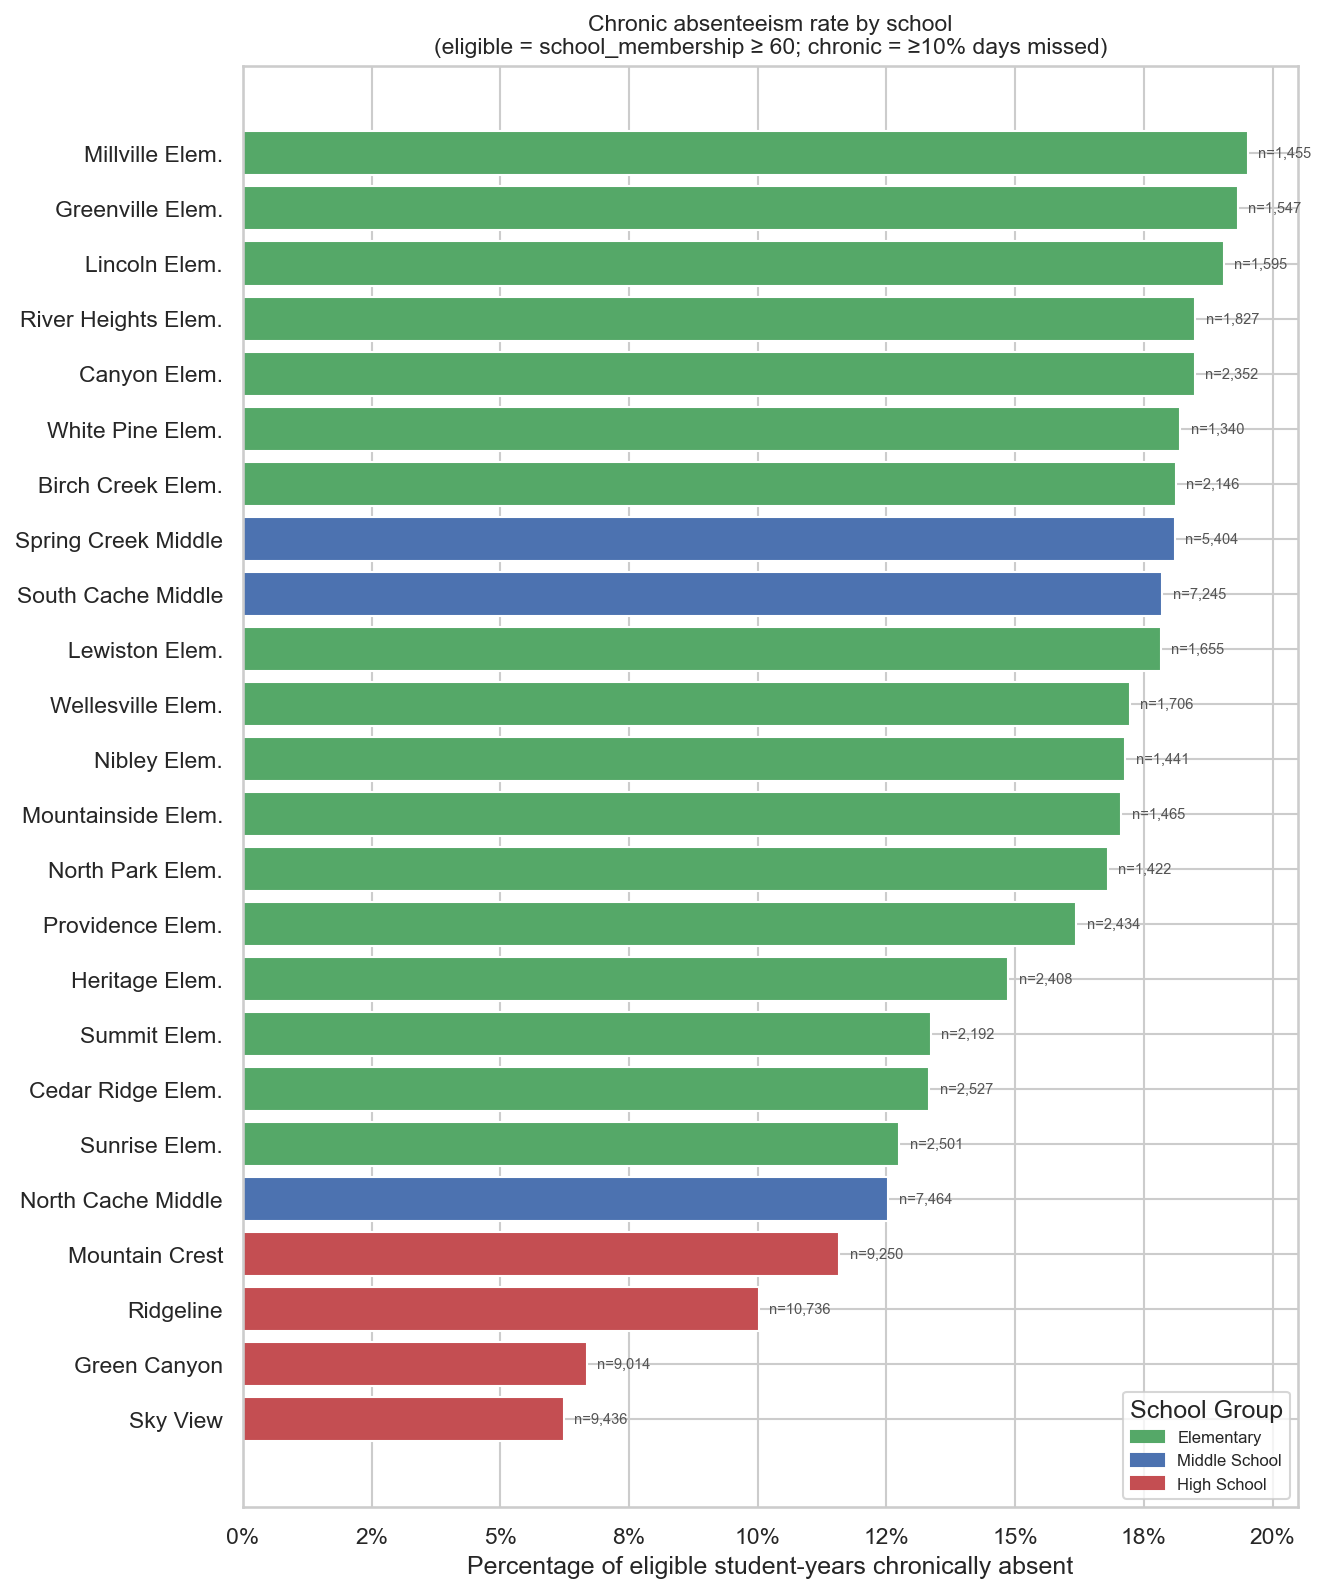
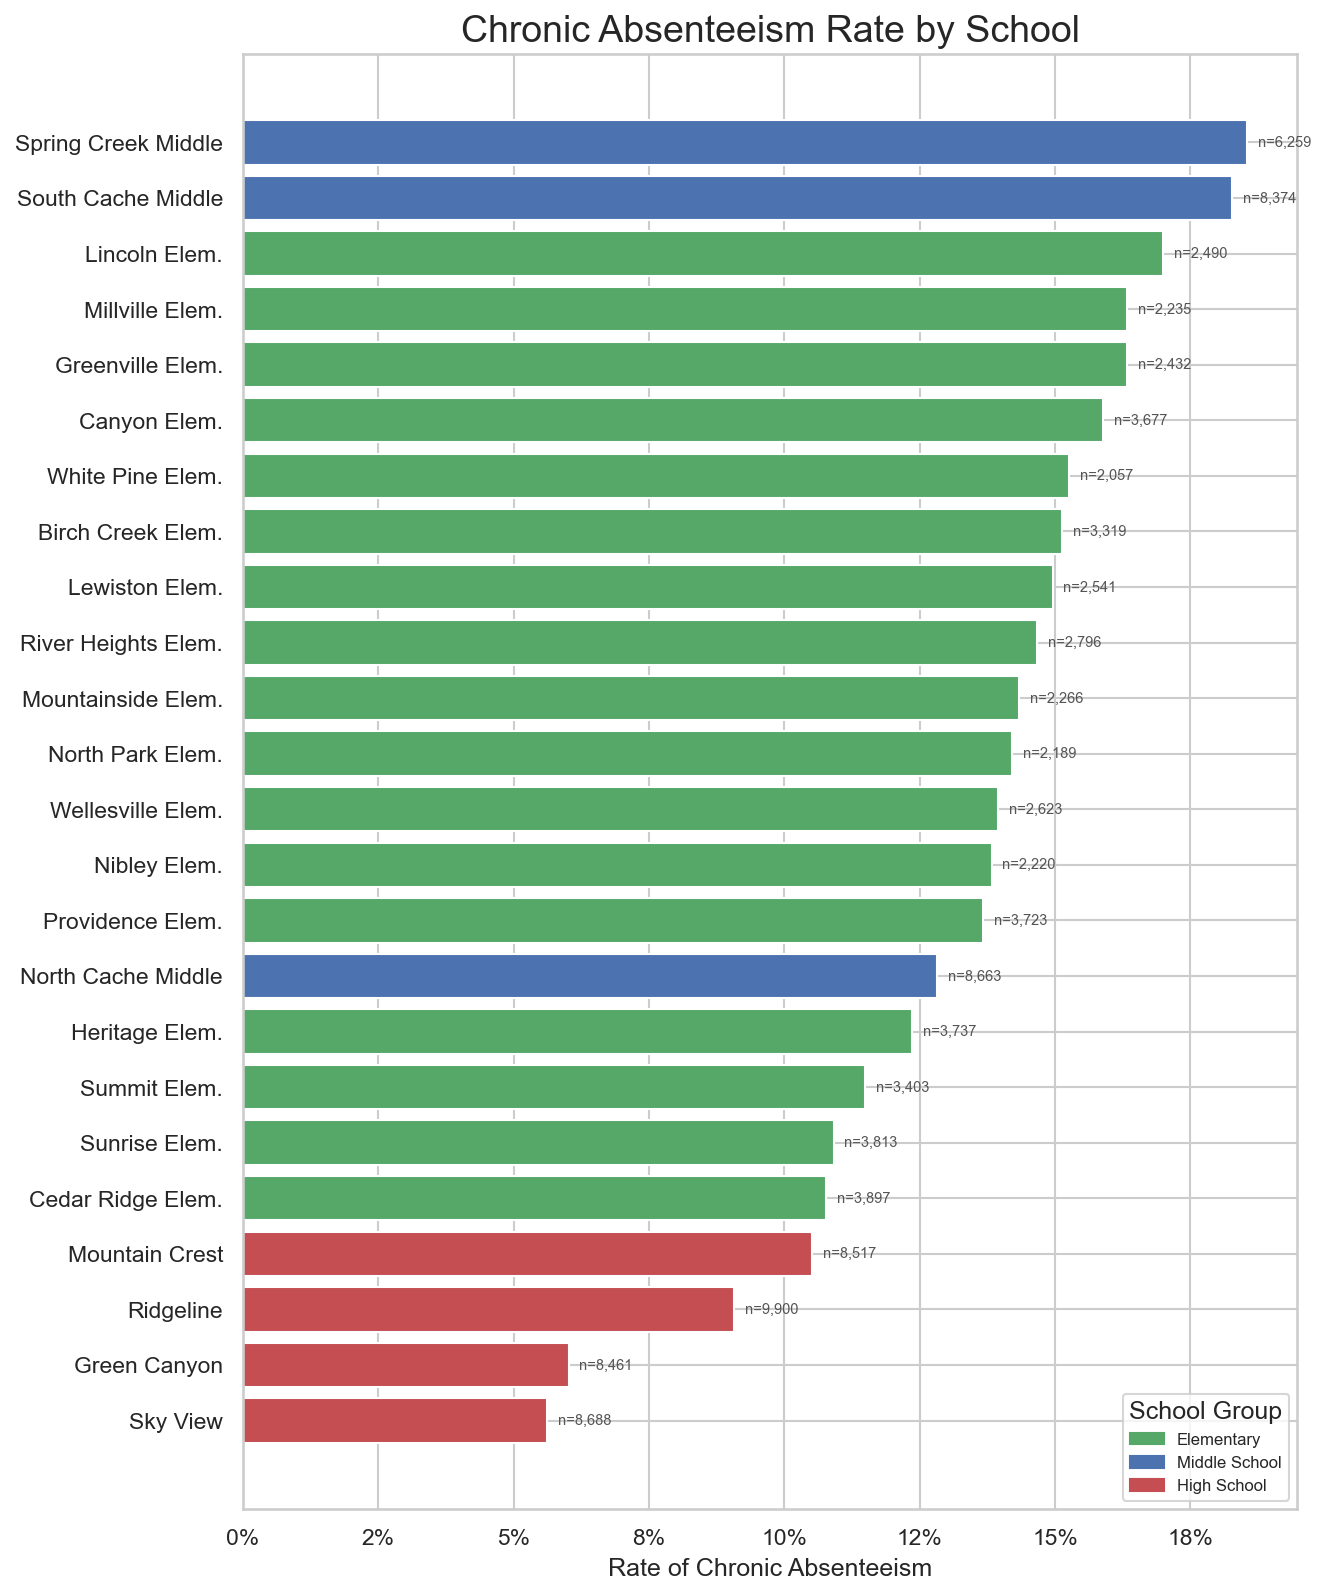
a few quick edits to chart titles

diff --git a/code/08_attendance.py b/code/08_attendance.py
@@ -462,45 +462,6 @@ print("Wrote chronic_absenteeism_rate_by_grade.png")
 
 
 # ═══════════════════════════════════════════════════════════════════════════════
-# CHART 4 — Mean GPA: chronic vs non-chronic by grade (7–12)
-# ═══════════════════════════════════════════════════════════════════════════════
-
-_rows4 = []
-for _g, _grp in _cbase_gpa.groupby("_grade", dropna=True):
-    _n_chr = int(_grp["_chronic"].sum())
-    _n_not = int((~_grp["_chronic"]).sum())
-    if _n_chr < MIN_N or _n_not < MIN_N:
-        continue
-    _rows4.append({
-        "grade":       _g,
-        "gpa_chronic": _grp.loc[_grp["_chronic"], "overall_gpa"].mean(),
-        "gpa_not":     _grp.loc[~_grp["_chronic"], "overall_gpa"].mean(),
-    })
-
-if _rows4:
-    _gpa_df4 = pd.DataFrame(_rows4).sort_values("grade")
-    _x = np.arange(len(_gpa_df4))
-    _w = 0.38
-    fig, ax = plt.subplots(figsize=(10, 5))
-    sns.set_theme(style="whitegrid")
-    ax.bar(_x - _w / 2, _gpa_df4["gpa_not"],    _w, color="#4c72b0", label="Not chronically absent")
-    ax.bar(_x + _w / 2, _gpa_df4["gpa_chronic"], _w, color="#c44e52", label="Chronically absent")
-    ax.set_xticks(_x)
-    ax.set_xticklabels(_gpa_df4["grade"].astype(int))
-    ax.set_xlabel("Grade")
-    ax.set_ylabel("Mean cumulative GPA")
-    ax.set_title(
-        "Mean GPA by grade (7–12): chronically absent vs not\n"
-        f"(suppressed where n < {MIN_N} in either group)",
-        fontsize=11,
-    )
-    ax.legend(fontsize=9)
-    fig.tight_layout()
-    fig.savefig(FIG_DIR / "grade_mean_gpa_chronic_vs_not.png", dpi=150, bbox_inches="tight")
-    plt.close(fig)
-
-
-# ═══════════════════════════════════════════════════════════════════════════════
 # CHART 5a — Chronic absenteeism by ethnicity (with n sizes)
 # ═══════════════════════════════════════════════════════════════════════════════
 
@@ -650,7 +611,7 @@ for _tier6 in _SCHOOL_GROUP_ORDER:
             _bar.get_width() + 0.002, _bar.get_y() + _bar.get_height() / 2,
             f"n={_n:,}", va="center", fontsize=8, color="#555555"
         )
-    ax.set_xlabel("Percentage of eligible student-years chronically absent")
+    ax.set_xlabel("Rate of Chronic Absenteeism")
     ax.set_title(f"Chronic Absenteeism Rate — {_tier6} Schools", fontsize=12)
     ax.xaxis.set_major_formatter(mticker.FuncFormatter(lambda x, _: f"{x:.0%}"))
     fig.tight_layout()
@@ -731,67 +692,6 @@ print("Wrote total_years_chronically_absent_vs_gpa.png")
 
 
 # ═══════════════════════════════════════════════════════════════════════════════
-# CHART 9 — Improvers by first good-attendance grade (grade in year of first good attendance)
-# ═══════════════════════════════════════════════════════════════════════════════
-
-_m9g = _anc_grade[_anc_grade["current_grade"].between(1, 12)]
-if not _m9g.empty:
-    _counts9_imp = (
-        _m9g.groupby("current_grade", as_index=False)
-        .size()
-        .rename(columns={"size": "n_improvers"})
-        .sort_values("current_grade")
-    )
-    _poor_grade_num = pd.to_numeric(_poor_rows["current_grade"], errors="coerce")
-    _poor_for_chart9 = _poor_rows.loc[_poor_grade_num.notna(), ["student_number"]].copy()
-    _poor_for_chart9["grade"] = _poor_grade_num[_poor_grade_num.notna()].astype(int).values
-    _counts9_poor = (
-        _poor_for_chart9.groupby("grade", as_index=False)["student_number"]
-        .nunique()
-        .rename(columns={"student_number": "n_poor"})
-    )
-    _counts9 = (
-        _counts9_imp.rename(columns={"current_grade": "grade"})
-        .merge(_counts9_poor, on="grade", how="outer")
-        .fillna(0)
-        .sort_values("grade")
-    )
-    _counts9_long = _counts9.melt(
-        id_vars="grade",
-        value_vars=["n_improvers", "n_poor"],
-        var_name="cohort",
-        value_name="n",
-    )
-    _counts9_long["cohort"] = _counts9_long["cohort"].map(
-        {
-            "n_improvers": "Improvers",
-            "n_poor": "Poor Attenders",
-        }
-    )
-    fig, ax = plt.subplots(figsize=(8, 5))
-    sns.set_theme(style="whitegrid")
-    sns.barplot(
-        data=_counts9_long,
-        x="grade",
-        y="n",
-        hue="cohort",
-        hue_order=["Improvers", "Poor Attenders"],
-        palette=["#4c72b0", "#c44e52"],
-        ax=ax,
-    )
-    ax.set_xlabel("Grade")
-    ax.set_ylabel("Total Students")
-    ax.set_title(
-        "Improvers vs Poor Attenders by Grade"
-    )
-    ax.legend(title=None, loc="upper right", fontsize=8)
-    fig.tight_layout()
-    fig.savefig(FIG_DIR / "improvers_count_by_grade.png", dpi=150, bbox_inches="tight")
-    plt.close(fig)
-    print("Wrote improvers_count_by_grade.png")
-
-
-# ═══════════════════════════════════════════════════════════════════════════════
 # CHART 10 — Proportion of improvers to poor attenders by grade
 #   Bar at grade G:  (improvers with first-good grade G)
 #                    / (all students with poor attendance in grade G).
@@ -820,31 +720,6 @@ if not _grade_counts.empty:
     fig.savefig(FIG_DIR / "proportion_of_improvers_to_poor_attenders_by_grade.png", dpi=150, bbox_inches="tight")
     plt.close(fig)
     print("Wrote proportion_of_improvers_to_poor_attenders_by_grade.png")
-
-
-# ═══════════════════════════════════════════════════════════════════════════════
-# CHART 11 — Improvers by school (first good-attendance year)
-# ═══════════════════════════════════════════════════════════════════════════════
-
-_improver_school_counts = (
-    _anc_school.groupby("current_school", as_index=False).size()
-    .rename(columns={"size": "n"})
-    .sort_values("n", ascending=False)
-)
-if not _improver_school_counts.empty:
-    fig, ax = plt.subplots(figsize=(max(10.0, 0.35 * len(_improver_school_counts)), 5))
-    sns.set_theme(style="whitegrid")
-    sns.barplot(data=_improver_school_counts, x="current_school", y="n", color="#4c72b0", ax=ax)
-    ax.set_xlabel("School")
-    ax.set_ylabel("Total Improvers")
-    ax.set_title(
-        "Improvers by School"
-    )
-    plt.setp(ax.get_xticklabels(), rotation=45, ha="right")
-    fig.tight_layout()
-    fig.savefig(FIG_DIR / "improvers_count_by_school.png", dpi=150, bbox_inches="tight")
-    plt.close(fig)
-    print("Wrote improvers_count_by_school.png")
 
 
 # ═══════════════════════════════════════════════════════════════════════════════

diff --git a/code/09_attendance_q2.py b/code/09_attendance_q2.py
@@ -41,7 +41,7 @@ def main() -> None:
         exit_num = pd.to_numeric(df["exit_code"], errors="coerce")
         df = df[exit_num.isna() | (exit_num == 0)].copy()
     df = df[df["current_school"].astype(str).str.strip().str.lower() != "other"].copy()
-    df = df[df["year"] >= 2022].copy()
+    # df = df[df["year"] >= 2022].copy()
     df = df[df["school_membership"] >= 60].copy()
     df["student_number"] = df["student_number"].astype(str)
     df["current_school"] = df["current_school"].astype(str).str.strip()
